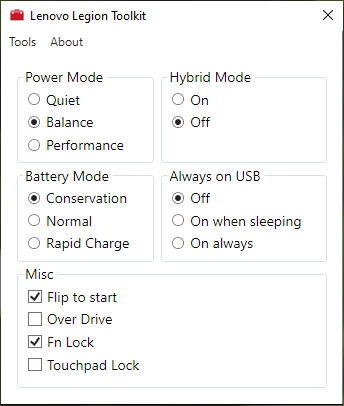
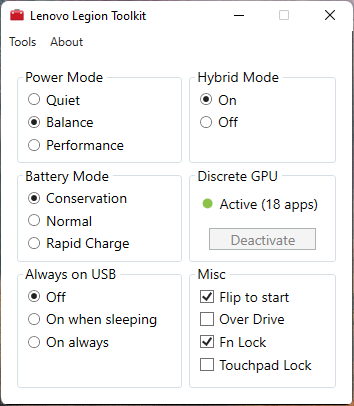
Updated screenshot and readme for dGPU deactivation.

diff --git a/README.md b/README.md
@@ -26,18 +26,28 @@ If you are getting an incompatible message on startup, you can check *Contributi
 The app allows to:
 
 * Switching between Quiet, Balance and Performance modes, including changing Windows power plans,
-
 * Enabling and disabling Hybrid Mode,
-
 * Changing Battery charging options: conservation, rapid charging and normal charging,
-
 * Always on USB charge settings: on, off and on when sleeping,
+* Flip to start, Over Drive, Fn and Touchpad locks,
+* Disable/enable Lenovo Vantage without uninstalling it,
+* Deactivate discrete GPU.
 
-* Flip to start, Over Drive, Fn and Touchpad locks.
+#### Disable/enable Lenovo Vantage
 
-This app also allows you to disable Lenovo Vantage without uninstalling it. It it especially useful, you want to keep Vantage around i.e. for checking updates.
+This app allows you to disable Lenovo Vantage without uninstalling it. It it especially useful, you want to keep Vantage around i.e. for checking updates.
 
 You can do it from the Tools menu on top. If you disable Vantage, it will stop and disable it's services, and disable all funky Lenovo Scheduled tasks. Once Vantage is disabled, it will no longer start any background processes on startup. If you want to open Lenovo Vantage, you need to re-enable it from the tool, otherwise it will prompt to reinstall itself.
+
+#### Deactivate discrete GPU
+
+Sometimes discrete GPU stays active even when it should not. This can happen for example, if you work with external screen and you disconnect it - some processes will keep running on discrete GPU keeping it alive and shortening battery life.
+
+This app allows you to deactivate discrete GPU, forcing all processes to move to integrated GPU and allowing discrete GPU to turn off and extend battery life. Toolkit will show you if the dGPU is active and how many processes run on it. If you hover mouse over the GPU status it, tooltip will contain list of active processes.
+
+Deactive button will be enabled when dGPU is active, you have Hybrid mode enabled and there are no screens connected to dGPU.
+
+Keep in mind that some apps may not like this feature and crash, when you deactivate dGPU.
 
 
 ## Requirements
